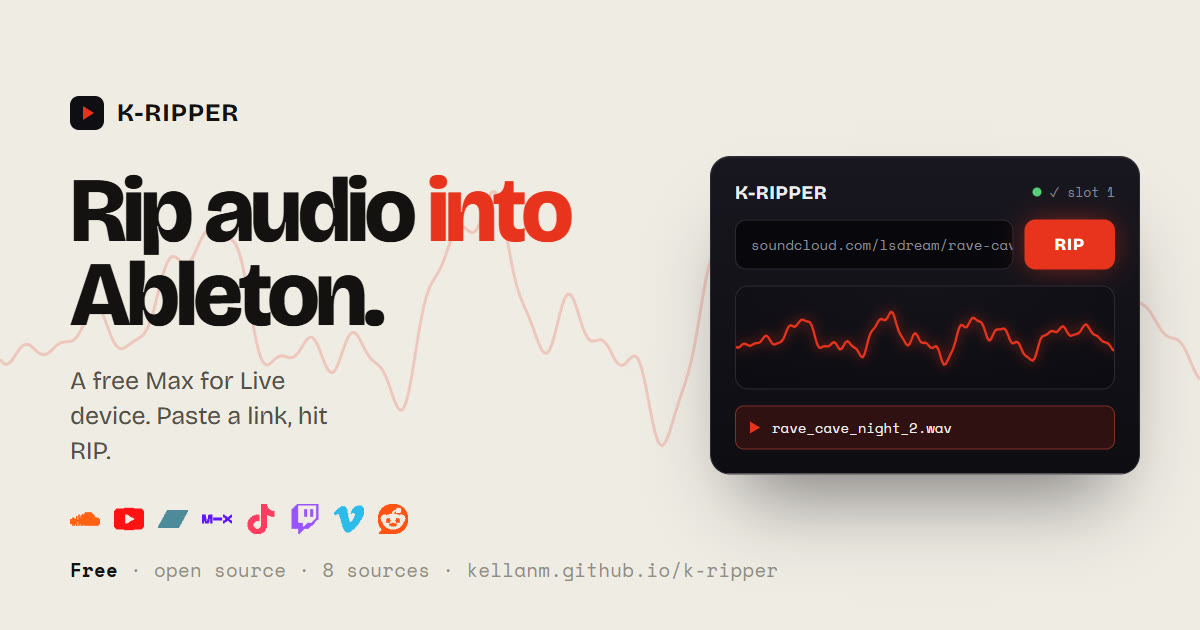
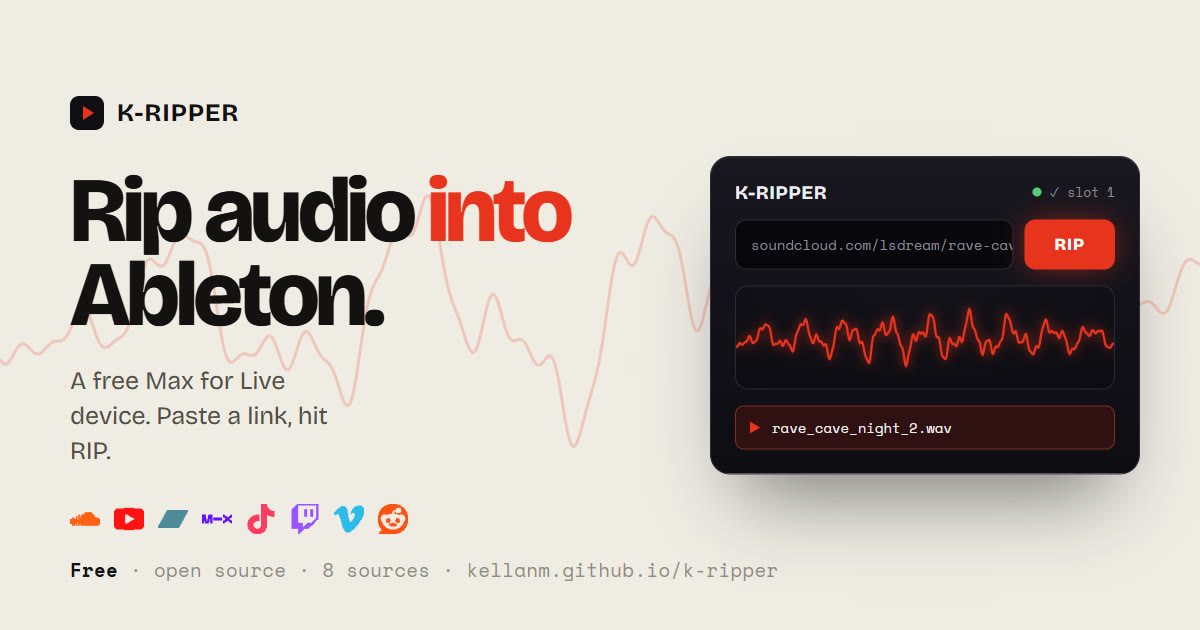
Higher-frequency waveform on the share card
Denser, audio-like oscilloscope trace in the OG card device (and finer
sampling), regenerated og.jpg.

diff --git a/docs/og.html b/docs/og.html
@@ -74,7 +74,7 @@
   // deterministic audio-like waveform paths (no animation, so the render is stable)
   function wave(el, w, h, amp, density, glow) {
     var pts = [];
-    for (var i = 0; i <= w; i += 2) {
+    for (var i = 0; i <= w; i += 1) {
       var p = i / w, shape = 0.45 + 0.55 * Math.sin(p * Math.PI);
       var v = Math.sin(p * density + 0.4) * 0.5 + Math.sin(p * density * 2.2 + 1.1) * 0.3
             + Math.sin(p * density * 4.3 + 2.0) * 0.16 + Math.sin(p * density * 8 + 0.6) * 0.08;
@@ -90,8 +90,8 @@
     if (glow) pl.setAttribute("filter", "drop-shadow(0 0 6px rgba(232,52,28,0.85))");
     el.appendChild(pl);
   }
-  wave(document.getElementById("scope"), 400, 104, 32, 26, true);
-  wave(document.getElementById("bgwave"), 1200, 630, 150, 26, false);
+  wave(document.getElementById("scope"), 400, 104, 30, 58, true);
+  wave(document.getElementById("bgwave"), 1200, 630, 150, 30, false);
 </script>
 </body>
 </html>
